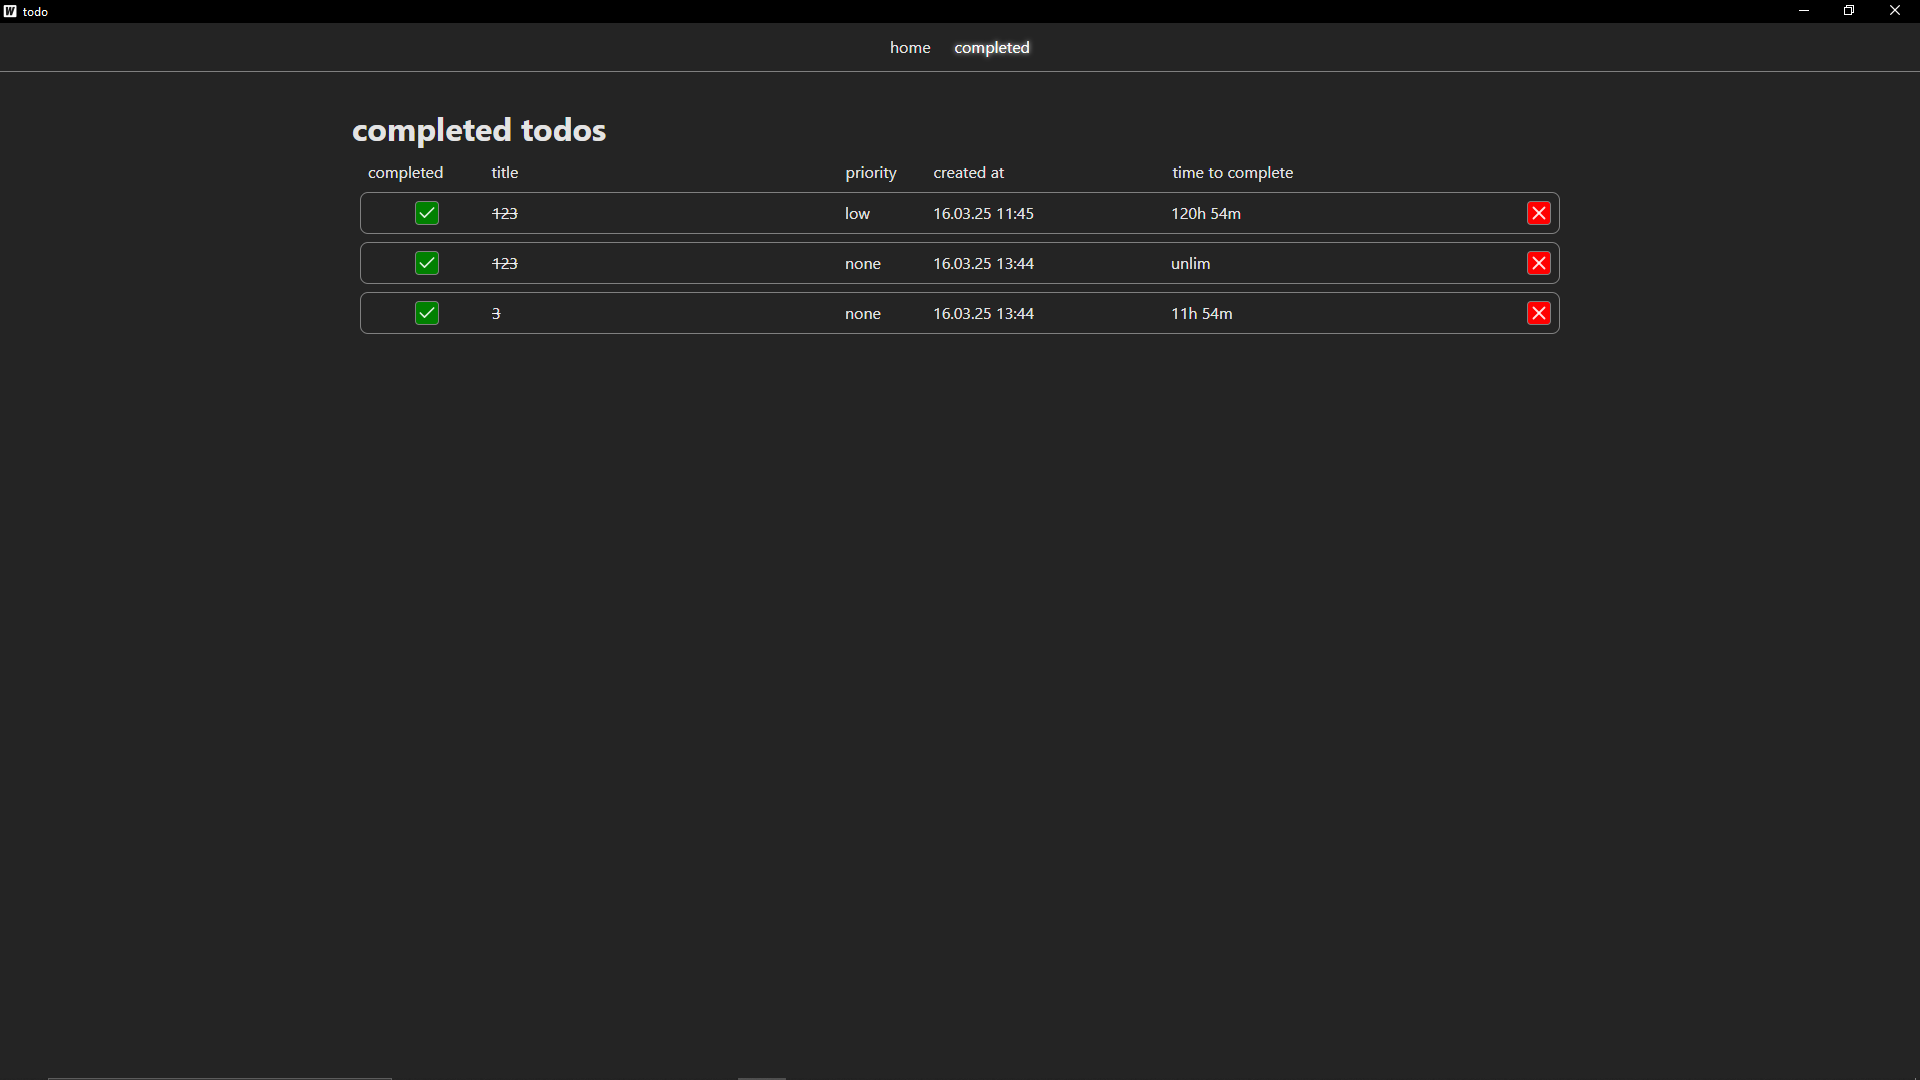
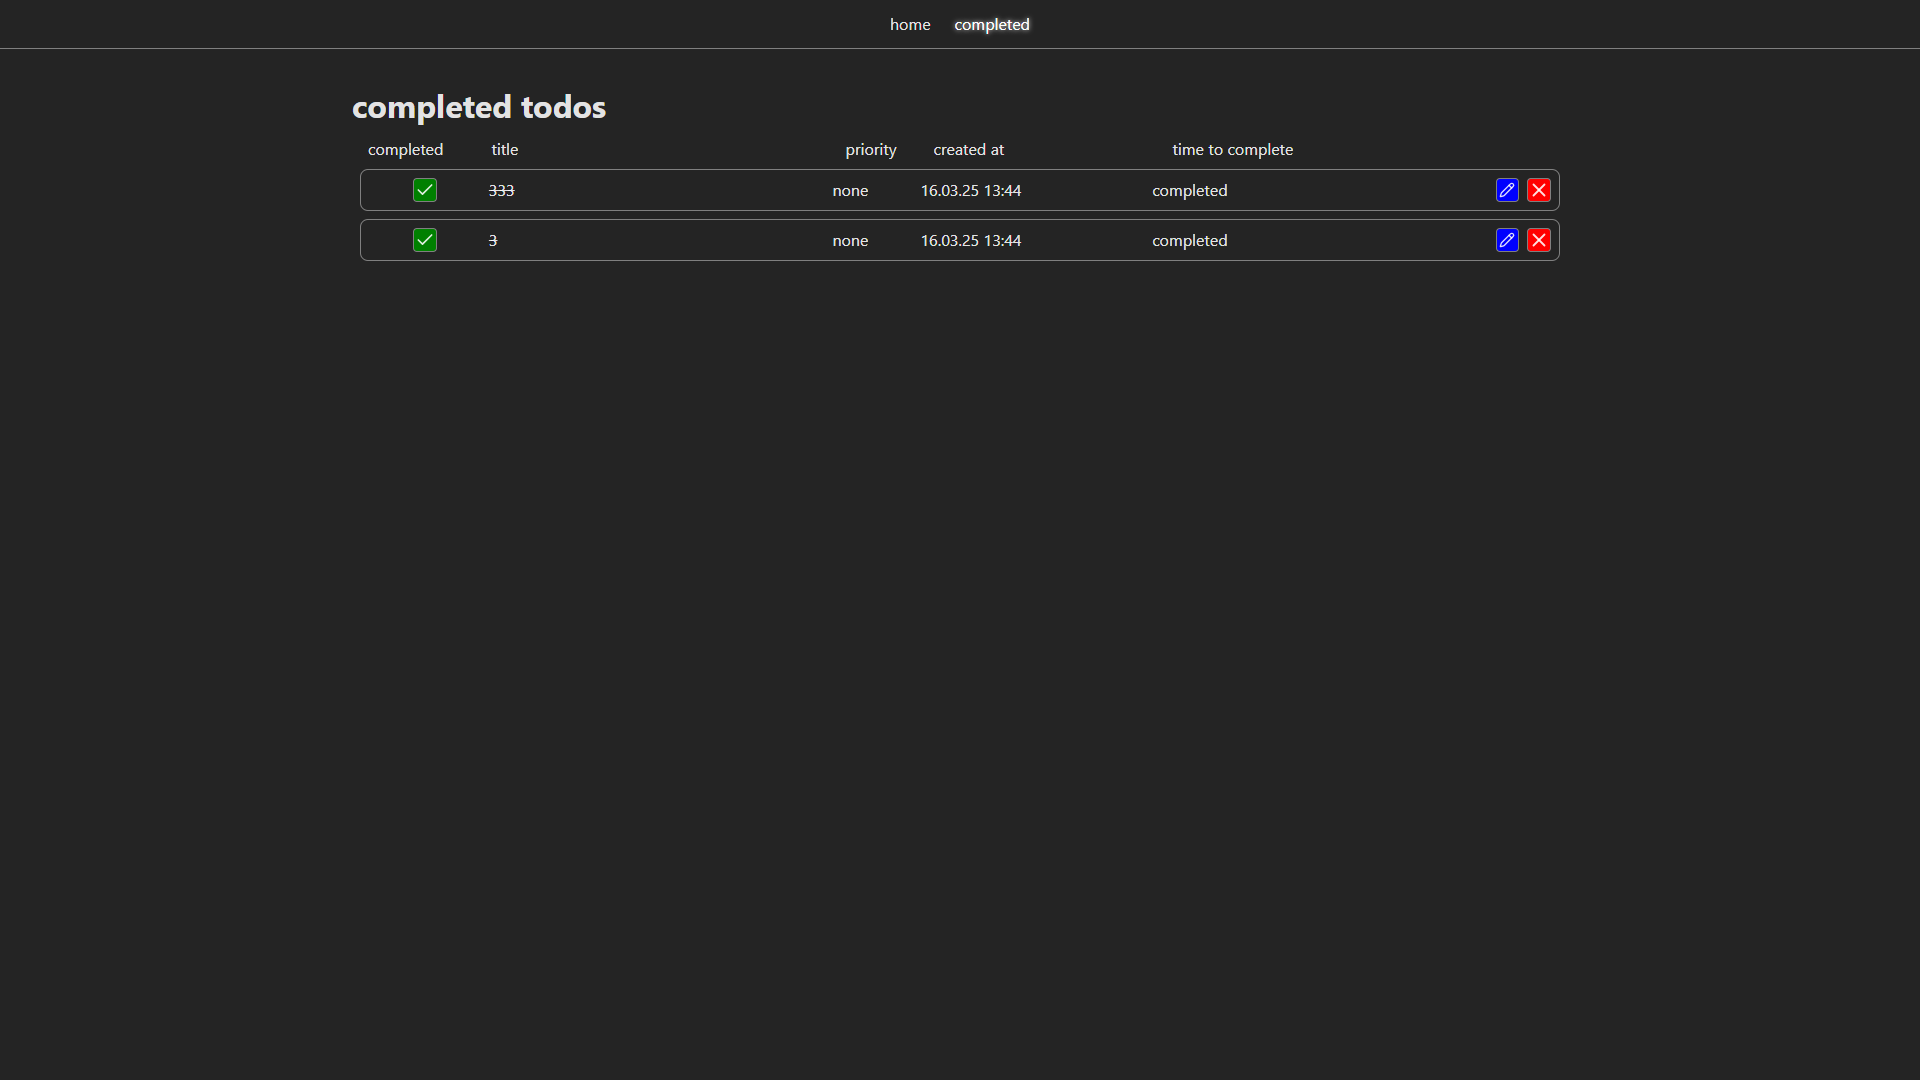
fixes + screens

diff --git a/frontend/src/components/todoList.tsx b/frontend/src/components/todoList.tsx
@@ -225,7 +225,7 @@ const TodoItem: FC<{
             padding: "20px",
             width: "400px",
             background: "#404040",
-            height: "200px",
+            height: "250px",
             margin: "auto",
           },
         }}
@@ -233,6 +233,7 @@ const TodoItem: FC<{
         onRequestClose={() => setEditModalOpen(false)}
         contentLabel="123"
       >
+        <h1> edit {todo.title} </h1>
         <form onSubmit={handleSubmit(onSubmit)} className={Styles.form}>
           <div className={Styles.block}>
             <label>title</label>

diff --git a/frontend/src/styles/todoList.module.scss b/frontend/src/styles/todoList.module.scss
@@ -66,7 +66,7 @@
     }
   }
   .marking {
-    width: calc(100% - 30px);
+    width: calc(100% - 64px);
     display: flex;
     // justify-content: space-between;
     padding: 0 8px;

diff --git a/README.md b/README.md
@@ -66,7 +66,7 @@ wails dev
 ## Скриншоты
 ### главная страница
 ![главная страница](screenshots/1.png)
-### адаптивность до 480px в ширину
+### адаптивность до 560px в ширину
 ![главная страница](screenshots/2.png)
 ### как работает форма
 ![главная страница](screenshots/3.png)
@@ -74,3 +74,6 @@ wails dev
 ![главная страница](screenshots/5.png)
 ### страница выполненых задач
 ![главная страница](screenshots/4.png)
+### изменение задачи
+![главная страница](screenshots/6.png)
+
